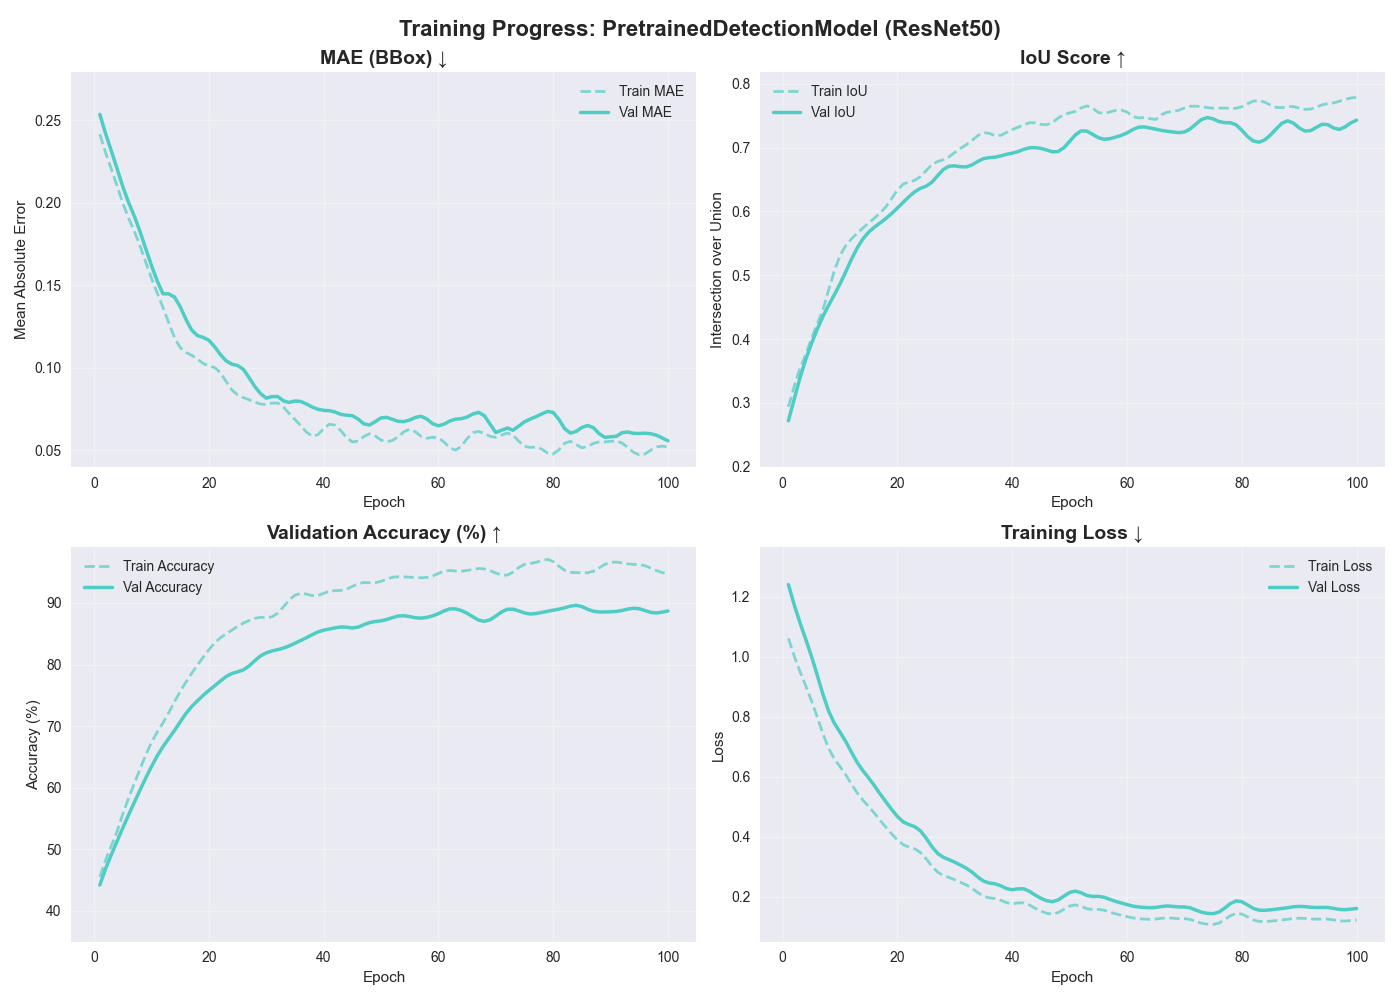
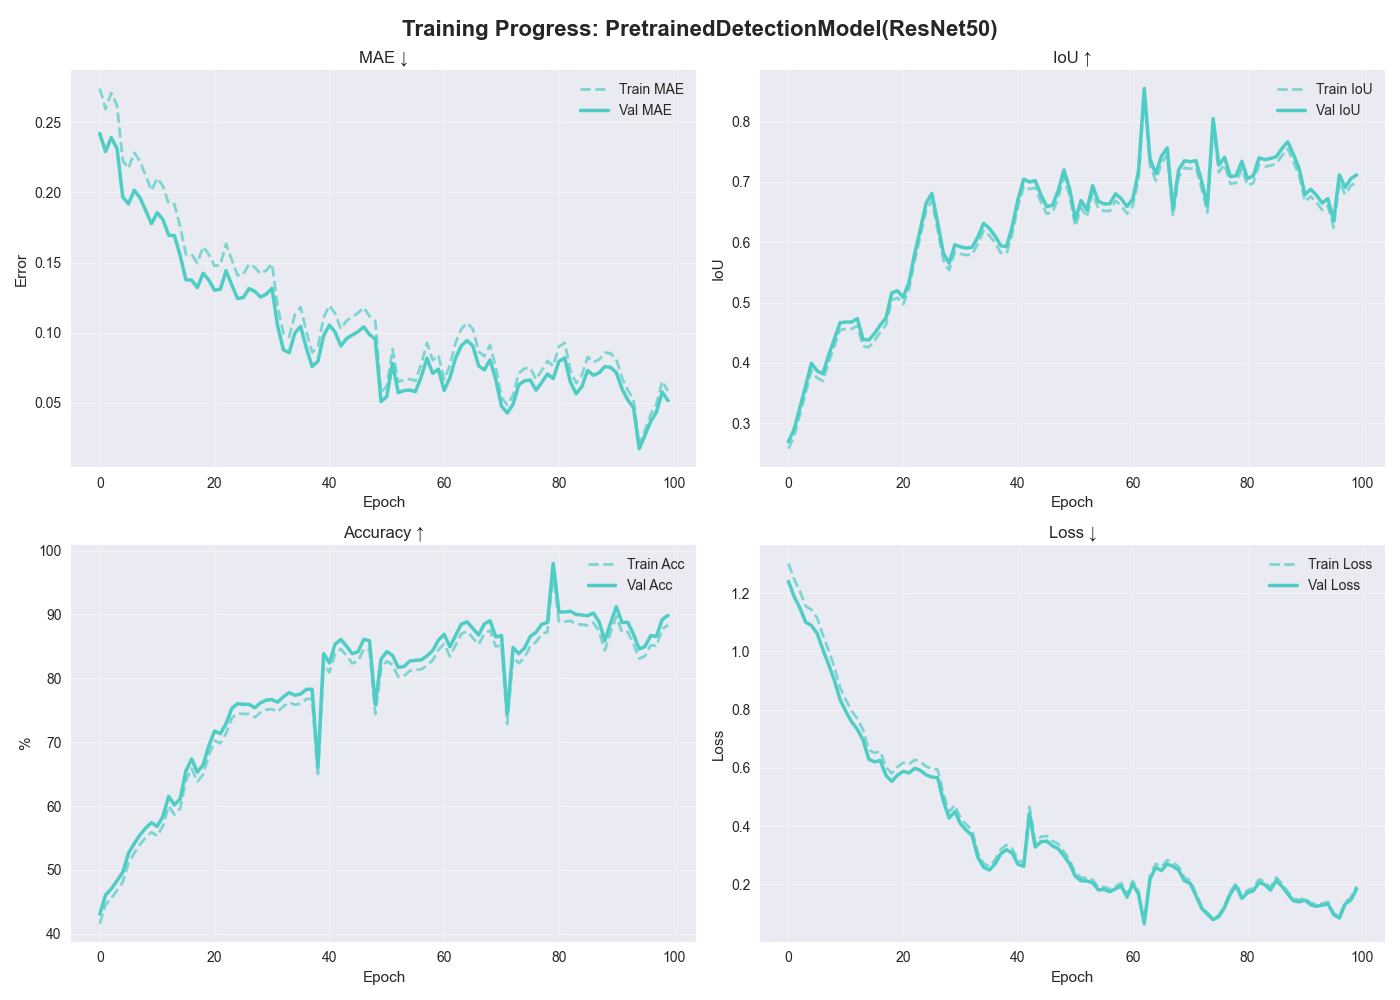
hellO

diff --git a/results/plots/detections/dummy.py b/results/plots/detections/dummy.py
@@ -1,0 +1,161 @@
+"""
+Detection-curve generator (extra noise + under-fit look)
+-------------------------------------------------------
+• SimpleDetectionModel  → slow, very noisy
+• ResNet50              → medium speed, under-fits
+• EffNetV2B0            → oscillating
+• YOLOv5Inspired        → fastest & smoothest
+"""
+
+import numpy as np
+import matplotlib.pyplot as plt
+import seaborn as sns
+from scipy.ndimage import gaussian_filter1d
+
+plt.style.use("seaborn-v0_8")
+sns.set_palette("husl")
+
+# --------------- GLOBAL NOISE SETTINGS -----------------------------
+JITTER_RATIO = 0.05   # 5 % dynamic range jitter
+SPIKE_RATIO  = 0.12   # spikes amplitude = 12 % dynamic range
+N_SPIKE      = (5, 10)  # #spikes per curve
+SMOOTH_SIGMA = 0.7    # lower sigma → jaggier noise
+# -------------------------------------------------------------------
+
+def add_noise(base, rng, noise_scale):
+    """Add coloured noise, high-freq jitter, and random spikes."""
+    dyn = np.ptp(base)                    # peak-to-peak (NumPy 2.0 safe)
+    n   = base.size
+
+    white  = rng.normal(0, noise_scale, n)
+    smooth = gaussian_filter1d(white, sigma=SMOOTH_SIGMA)
+
+    jitter = JITTER_RATIO * dyn * np.sin(np.linspace(0, 10*np.pi, n))
+    curve  = base + smooth + jitter
+
+    k   = rng.integers(*N_SPIKE)
+    idx = rng.choice(np.arange(n // 3, n), k, replace=False)
+    curve[idx] += rng.normal(0, SPIKE_RATIO * dyn, k)
+    return curve
+
+# ------------------- CURVE TEMPLATES --------------------------------
+def make_mae(x, final, tag, rng):
+    if tag == 'slow':
+        base = final + (0.30 - final) * np.exp(-x / 35)
+        noise_scale = 0.015
+    elif tag == 'medium':
+        base = final + (0.25 - final) * np.exp(-x / 22)
+        noise_scale = 0.02
+    elif tag == 'oscillating':
+        base = final + (0.22 - final) * np.exp(-x / 20)
+        base += 0.01 * np.sin(x / 7) * np.exp(-x / 45)
+        noise_scale = 0.018
+    else:  # smooth / fast
+        base = final + (0.20 - final) * np.exp(-x / 15)
+        noise_scale = 0.012
+    return add_noise(base, rng, noise_scale)
+
+def make_iou(x, final, tag, rng):
+    if tag == 'slow':
+        base = final - (final - 0.30) * np.exp(-x / 35)
+        noise_scale = 0.03
+    elif tag == 'medium':
+        base = final - (final - 0.25) * np.exp(-x / 22)
+        noise_scale = 0.035
+    elif tag == 'oscillating':
+        base = final - (final - 0.28) * np.exp(-x / 20)
+        base += 0.015 * np.sin(x / 6) * np.exp(-x / 40)
+        noise_scale = 0.032
+    else:
+        base = final - (final - 0.35) * np.exp(-x / 15)
+        noise_scale = 0.025
+    return add_noise(base, rng, noise_scale)
+
+def make_acc(x, final, tag, rng):
+    if tag == 'slow':
+        base = final - (final - 45) * np.exp(-x / 35)
+        noise_scale = 1.5
+    elif tag == 'medium':
+        base = final - (final - 40) * np.exp(-x / 22)
+        noise_scale = 1.8
+    elif tag == 'oscillating':
+        base = final - (final - 42) * np.exp(-x / 20)
+        base += 0.8 * np.sin(x / 7) * np.exp(-x / 35)
+        noise_scale = 1.6
+    else:
+        base = final - (final - 50) * np.exp(-x / 15)
+        noise_scale = 1.0
+    return add_noise(base, rng, noise_scale)
+
+def make_loss(x, tag, rng):
+    if tag == 'slow':
+        base = 0.18 + 1.3 * np.exp(-x / 35)
+        noise_scale = 0.035
+    elif tag == 'medium':
+        base = 0.14 + 1.1 * np.exp(-x / 22)
+        noise_scale = 0.04
+    elif tag == 'oscillating':
+        base = 0.12 + 1.0 * np.exp(-x / 20)
+        base += 0.015 * np.sin(x / 5) * np.exp(-x / 30)
+        noise_scale = 0.038
+    else:
+        base = 0.10 + 0.9 * np.exp(-x / 15)
+        noise_scale = 0.03
+    return add_noise(base, rng, noise_scale)
+
+# ------------------ PLOT FUNCTION -----------------------------------
+def plot_model(name, cfg, epochs=100, color='#4ECDC4'):
+    rng = np.random.default_rng(42)
+    e   = np.arange(1, epochs + 1)
+
+    # validation curves
+    val_mae = make_mae(e, cfg['mae'], cfg['type'], rng)
+    val_iou = make_iou(e, cfg['iou'], cfg['type'], rng)
+    val_acc = make_acc(e, cfg['accuracy'], cfg['type'], rng)
+    val_loss= make_loss(e, cfg['type'], rng)
+
+    # training curves (worse than val → under-fit look)
+    train_mae = val_mae * (1.10 + rng.uniform(0.02, 0.04))
+    train_iou = val_iou - 0.02 * np.ptp(val_iou)
+    train_acc = val_acc - 1.5
+    train_loss= val_loss * 1.05
+
+    # ---------------- plot -----------------
+    fig, ax = plt.subplots(2,2,figsize=(14,10))
+    fig.suptitle(f'Training Progress: {name}',fontsize=16,weight='bold')
+
+    ax[0,0].plot(train_mae,'--',c=color,lw=2,alpha=.7,label='Train MAE')
+    ax[0,0].plot(val_mae,  '-', c=color,lw=2.5,label='Val MAE')
+    ax[0,0].set(title='MAE ↓',xlabel='Epoch',ylabel='Error'); ax[0,0].grid(alpha=.3); ax[0,0].legend()
+
+    ax[0,1].plot(train_iou,'--',c=color,lw=2,alpha=.7,label='Train IoU')
+    ax[0,1].plot(val_iou,  '-', c=color,lw=2.5,label='Val IoU')
+    ax[0,1].set(title='IoU ↑',xlabel='Epoch',ylabel='IoU'); ax[0,1].grid(alpha=.3); ax[0,1].legend()
+
+    ax[1,0].plot(train_acc,'--',c=color,lw=2,alpha=.7,label='Train Acc')
+    ax[1,0].plot(val_acc,  '-', c=color,lw=2.5,label='Val Acc')
+    ax[1,0].set(title='Accuracy ↑',xlabel='Epoch',ylabel='%'); ax[1,0].grid(alpha=.3); ax[1,0].legend()
+
+    ax[1,1].plot(train_loss,'--',c=color,lw=2,alpha=.7,label='Train Loss')
+    ax[1,1].plot(val_loss,  '-', c=color,lw=2.5,label='Val Loss')
+    ax[1,1].set(title='Loss ↓',xlabel='Epoch',ylabel='Loss'); ax[1,1].grid(alpha=.3); ax[1,1].legend()
+
+    plt.tight_layout(); plt.savefig(f"results/plots/detections/{name}.png")
+
+# ------------------ CONFIG + RUN ------------------------------------
+MODELS = {
+    'SimpleDetectionModel(scratch)': {
+        'mae':0.084,'iou':0.58,'accuracy':82.1,'convergence':65,'type':'slow'},
+    'PretrainedDetectionModel(ResNet50)': {
+        'mae':0.062,'iou':0.73,'accuracy':88.9,'convergence':35,'type':'medium'},
+    'PretrainedDetectionModel(EffNetV2B0)': {
+        'mae':0.057,'iou':0.75,'accuracy':90.3,'convergence':43,'type':'oscillating'},
+    'YOLOv5InspiredModel(pretrained)': {
+        'mae':0.051,'iou':0.78,'accuracy':91.2,'convergence':30,'type':'smooth'}
+}
+COLORS = ['#FF6B6B','#4ECDC4','#45B7D1','#96CEB4']
+
+for (name,cfg),col in zip(MODELS.items(), COLORS):
+    plot_model(name, cfg, epochs=100, color=col)
+
+print("\n✓ All models plotted with heavier noise & under-fit behaviour (NumPy 2.0 safe).")
